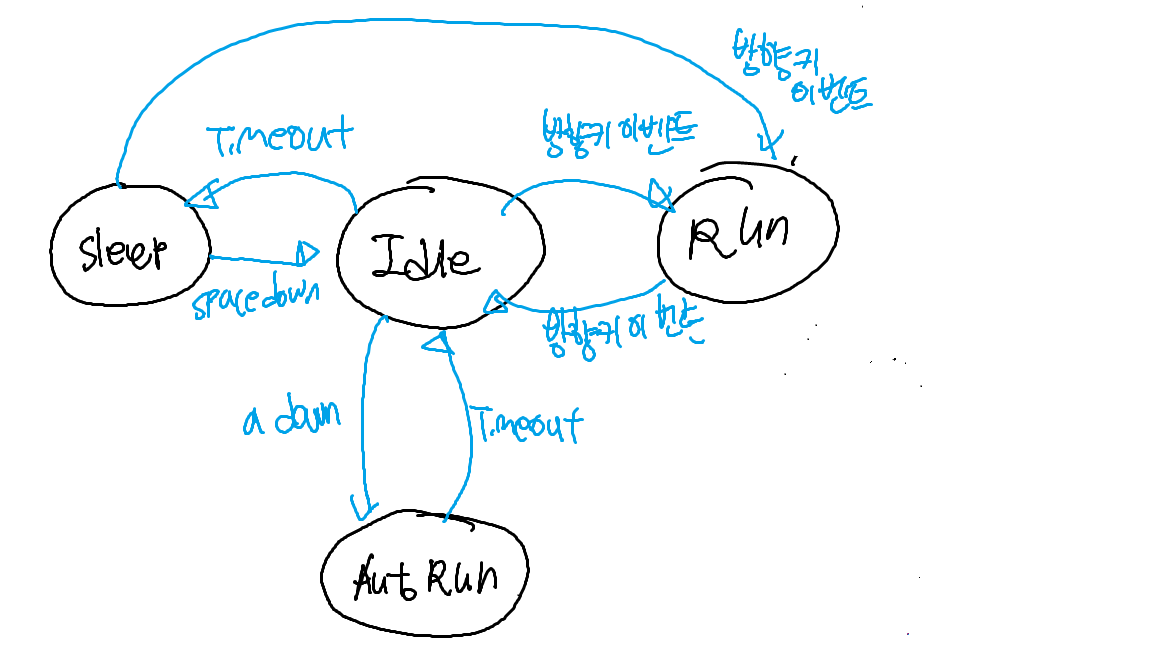
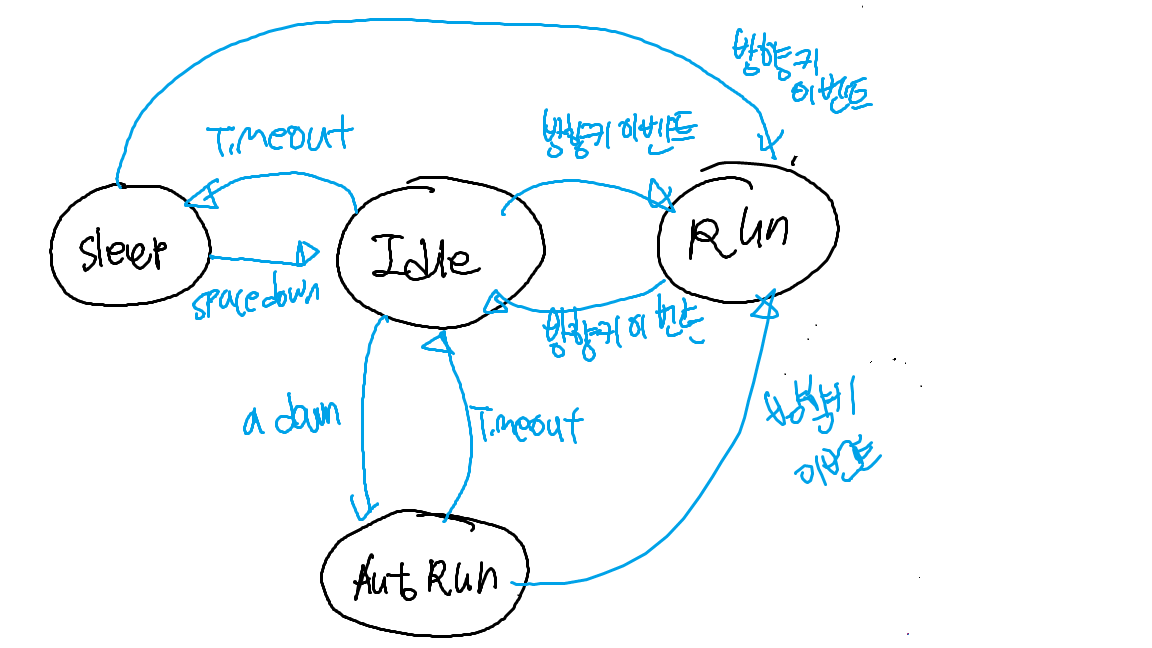
Drill09 (2020180050 이혜빈)
방향키 추가

diff --git a/Drill09/boy.py b/Drill09/boy.py
@@ -151,7 +151,7 @@ class StateMachine:
             Idle: {right_down: Run, left_down: Run, left_up: Run, right_up: Run, time_out: Sleep, a_down: AutoRun},
             Run: {right_down: Idle, left_down: Idle, right_up: Idle, left_up: Idle},
             Sleep: {right_down: Run, left_down: Run, right_up: Run, left_up: Run, space_down: Idle},
-            AutoRun: {time_out: Idle}
+            AutoRun: {time_out: Idle, right_down: Run, left_down: Run, right_up: Run, left_up: Run}
         }
 
     def handle_event(self, e):
